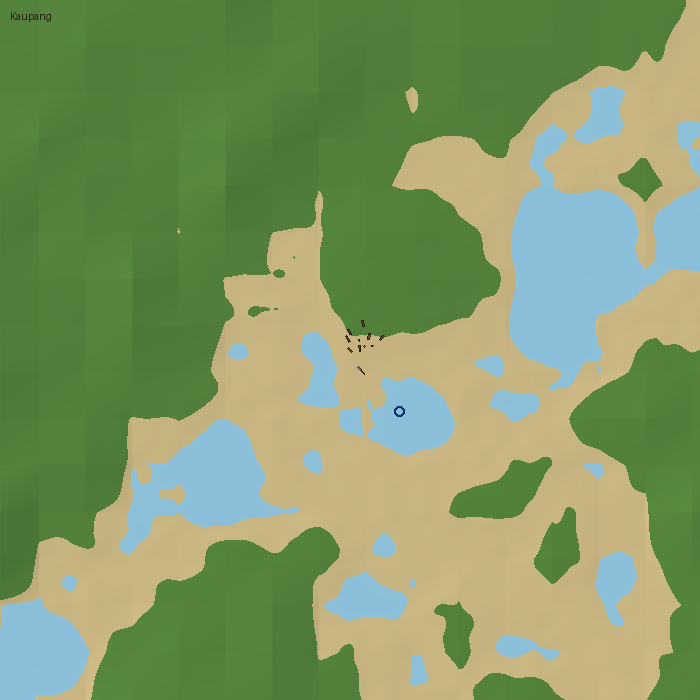
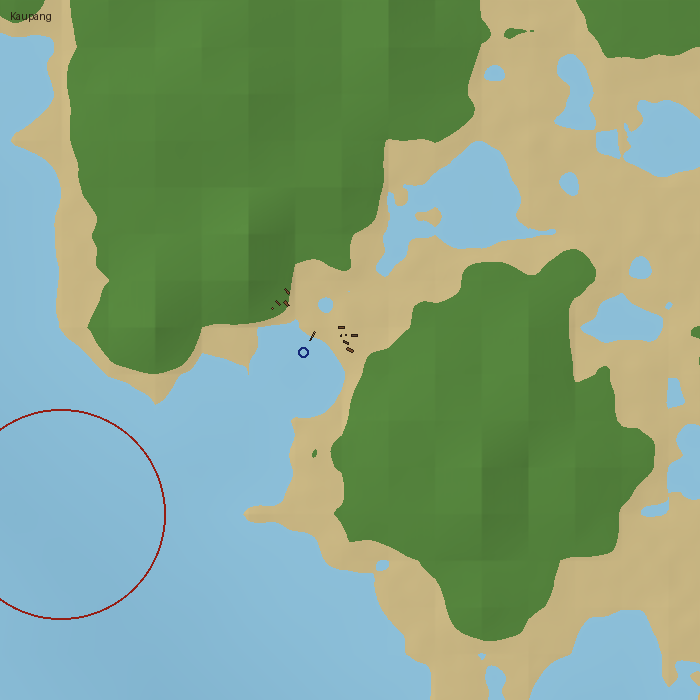
Place previews use the baked harbours
Claude-Session: https://claude.ai/code/session_01SCdejJ1UF8RUxAkkFhZXGU

diff --git a/tools/world/PlacePreview.cs b/tools/world/PlacePreview.cs
@@ -14,6 +14,8 @@ public static class PlacePreview
         var map = WorldMap.FromBytes(File.ReadAllBytes(args[0]));
         var coast = Path.Combine(Path.GetDirectoryName(args[0]), "coast.bytes");
         if (File.Exists(coast)) map.Detail = WorldDetail.FromBytes(File.ReadAllBytes(coast));
+        var baked = Path.Combine(Path.GetDirectoryName(args[0]), "harbours.txt");
+        Places.LoadHarbours(File.Exists(baked) ? File.ReadAllText(baked) : null);
         var place = Places.Find(args[1]);
         float km = float.Parse(args[2], CultureInfo.InvariantCulture);
         int n = int.Parse(args[3]);
